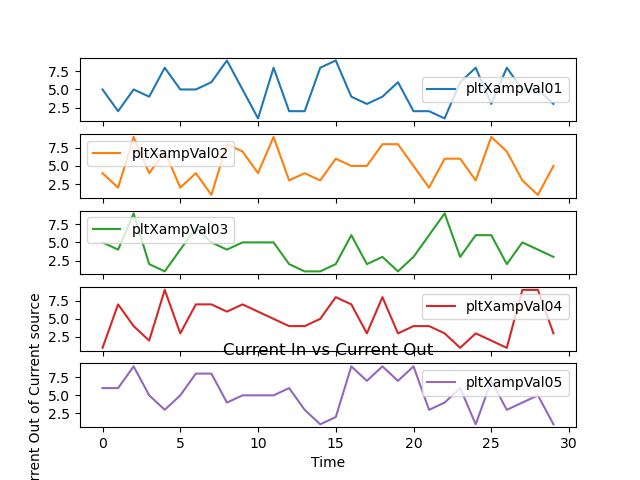
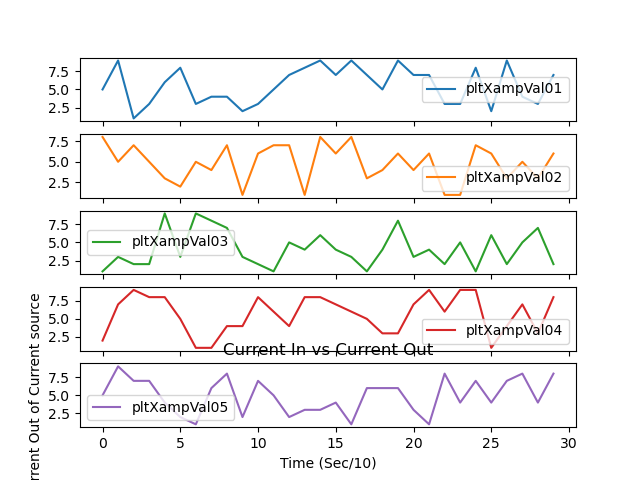
update

diff --git a/Python/picoTest.py b/Python/picoTest.py
@@ -38,6 +38,7 @@ pltData = pd.DataFrame(data=[], index=[], columns=[])
 
 # bkdmm.write(b'func volt:dc\n')                                  #set dmm to volt
 # bkdmm.write(b'volt:dc:rang:auto 1\n')                           #set ddm to auto range
+debug = False
 row = 0
 counter = 0
 voltIn = 0
@@ -45,7 +46,8 @@ currOut = 0
 commandTX = 0
 power = 8
 
-colNum = 2      #int(input('How many colums do you want to test?'))
+
+colNum = 3      #int(input('How many colums do you want to test?'))
 currentInc = 11   #int(input('How many steps for current?'))
 voltInc = 34      #int(input('How many steps for Voltage?'))
 
@@ -54,6 +56,7 @@ cOut = "CurrOut000"
 cIn = "CurrIn000"
 ampVal = "ampVal01"
 pltX = "pltX"
+pltY = "pltY"
 picLoc = "C:\\Users\\jpew\\AppData\\Local\\miniconda3\\envs\\testequ\\RTSeval\\Python\\Data\\csCharacterization\\"
 picName = "cs000"
 
@@ -88,27 +91,25 @@ for c in range(colNum):
                 if counter == 0:
                     csData.at[row, str(cIn)] = row/10
                 csData.at[row, str(cOut+ampVal)] = random.randint(1, 9)
-                pltData.at[row, str(pltX+ampVal)] = row/10
+                #pltData.at[row, str(pltX+ampVal)] = row/10
                 pltData.at[row, str(pltX+ampVal)] = csData.at[row, str(cOut+ampVal)]
-                print(time.perf_counter()-startT)
+                if debug is True:
+                    print(time.perf_counter()-startT)
                 row = row + 1
                 time.sleep(.1)
             if a < 4:
                 ampVal = re.sub(r'[0-9]+$',
                 lambda x: f"{str(int(x.group())+1).zfill(len(x.group()))}",    # increments the number in the column name
                 ampVal)
-                # pltX = re.sub(r'[0-9]+$',
-                # lambda x: f"{str(int(x.group())+1).zfill(len(x.group()))}",    # increments the number in the column name
-                # pltX)
             row = 0
             
         ampVal = "ampVal01"
-        print(pltX)
-        pltData.plot(subplots=[(pltX+'ampVal01',(pltX+'ampVal01')), ((pltX+'ampVal02'),(pltX+'ampVal02')),
+        print(pltData)
+        pltData.plot(sharex=True, subplots=[(pltX+'ampVal01',(pltX+'ampVal01')), ((pltX+'ampVal02'),(pltX+'ampVal02')),
             ((pltX+'ampVal03'),(pltX+'ampVal03')), ((pltX+'ampVal04'),(pltX+'ampVal04')), ((pltX+'ampVal05'),(pltX+'ampVal05'))])
         
         plt.title("Current In vs Current Out")
-        plt.xlabel("Time")
+        plt.xlabel("Time (Sec/10)")
         plt.ylabel("Current Out of Current source")
         plt.savefig(str(picLoc) + str(picName) + '.png')
         fig = plt.show(block = False)
